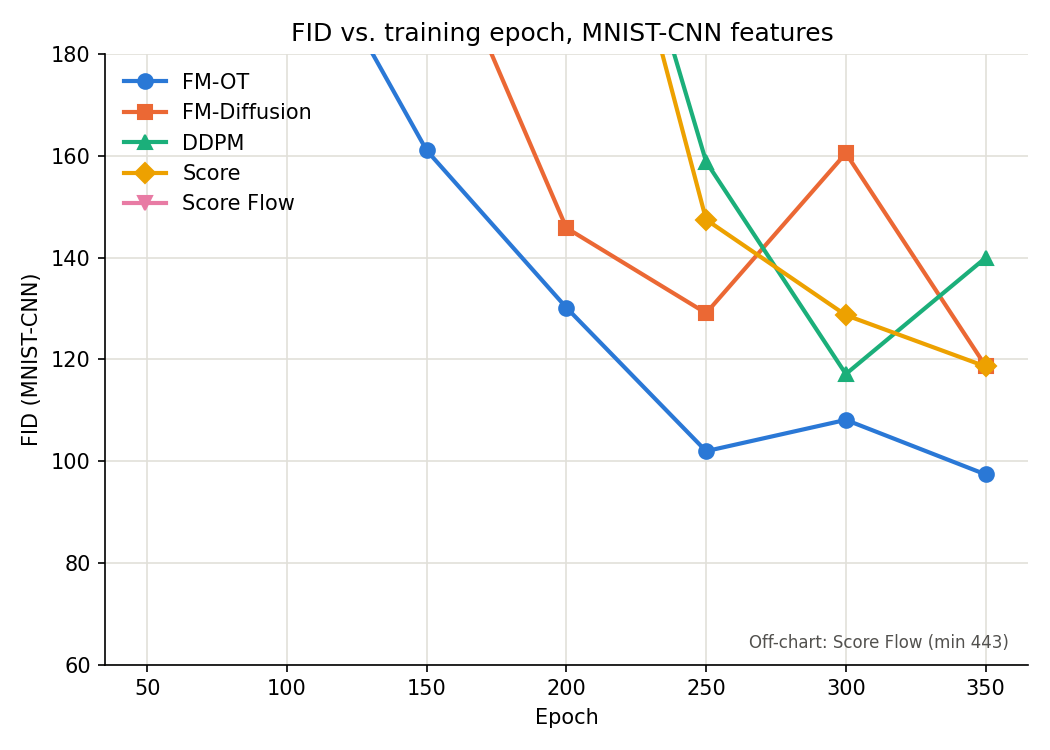
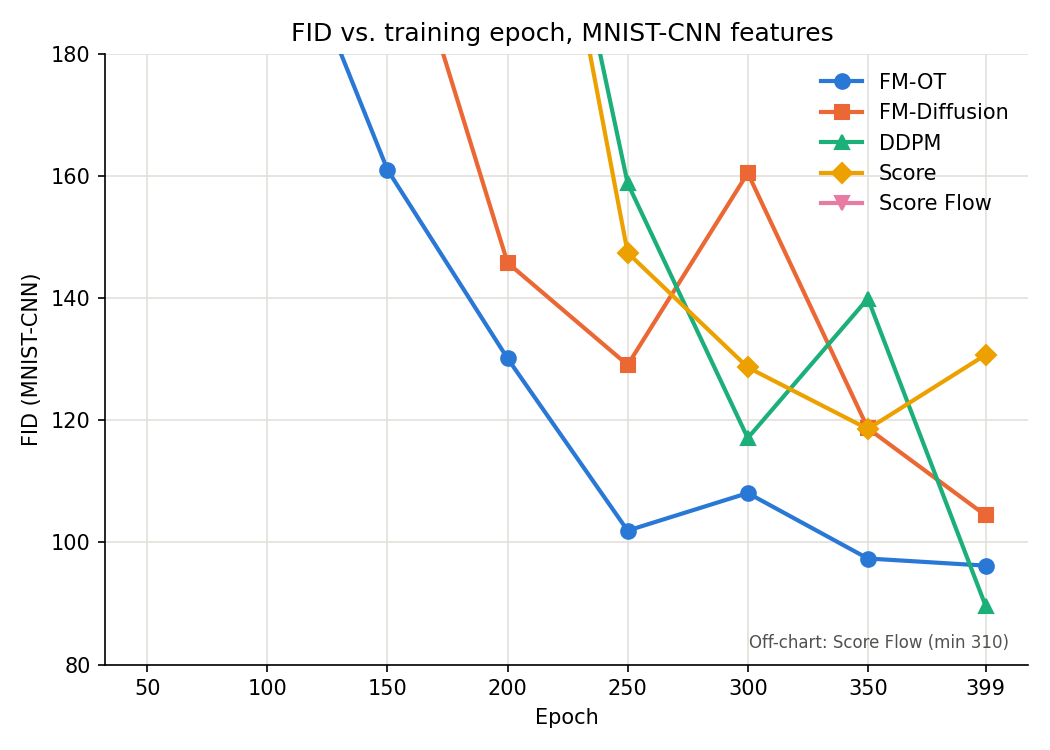
fix: update metrics in comparison tables and adjust plotting scripts for MNIST dataset

diff --git a/README.md b/README.md
@@ -125,11 +125,12 @@ each other.
 
 | Method | NLL (BPD) ↓ | FID ↓ | Avg. NFE ↓ |
 |---|---:|---:|---:|
-| `ddpm` | 2.390 | 145.403 | 176.0 |
-| `score` | 1.869 | 136.238 | 150.5 |
-| `score_flow` | 2.370 | 1248.002 | 180.5 |
-| `fm_diffusion` | 2.221 | 85.628 | 155.0 |
-| `fm_ot` | **1.607** | **68.515** | **114.5** |
+| `ddpm` | 2.265 | **89.627** | 182.0 |
+| `score` | 2.176 | 130.730 | 155.0 |
+| `score_flow` | 2.678 | 309.768 | 164.0 |
+| `fm_diffusion` | 2.607 | 104.448 | 173.0 |
+| `fm_ot `| **1.660** | 96.205 | **122.0** |
+
 
 <img src="figs/fid_vs_epoch_minist_cnn.png" width="80%">
 </div>
@@ -140,11 +141,11 @@ each other.
 
 | Method | NLL (BPD) ↓ | FID ↓ | Avg. NFE ↓ |
 |---|---:|---:|---:|
-| `ddpm` | 2.392 | 124.481 | 177.5 |
-| `score` | 1.868 | 129.055 | 150.5 |
-| `score_flow` | 2.379 | 241.597 | 185.0 |
-| `fm_diffusion` | 2.221 | 123.583 | 153.5 |
-| `fm_ot` | **1.606** | **120.598** | **116.0** |
+| `ddpm` | 2.265 | 136.674 | 182.0 |
+| `score` | 2.176 | 121.454 | 155.0 |
+| `score_flow` | 2.678 | 184.895 | 164.0 |
+| `fm_diffusion` | 2.607 | 129.497 | 173.0 |
+| `fm_ot` | **1.660** | **119.785** | **122.0** |
 
 <img src="figs/fid_vs_epoch_inception.png" width="80%">
 
